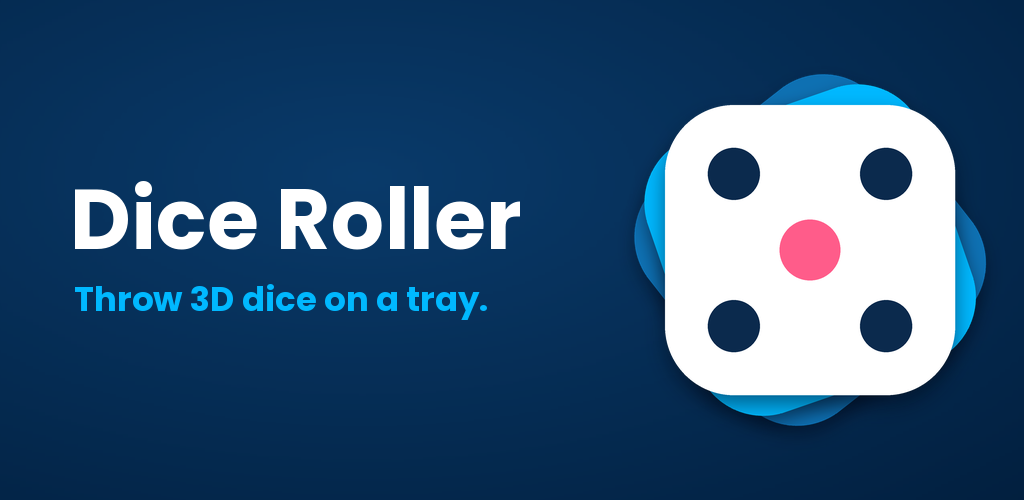
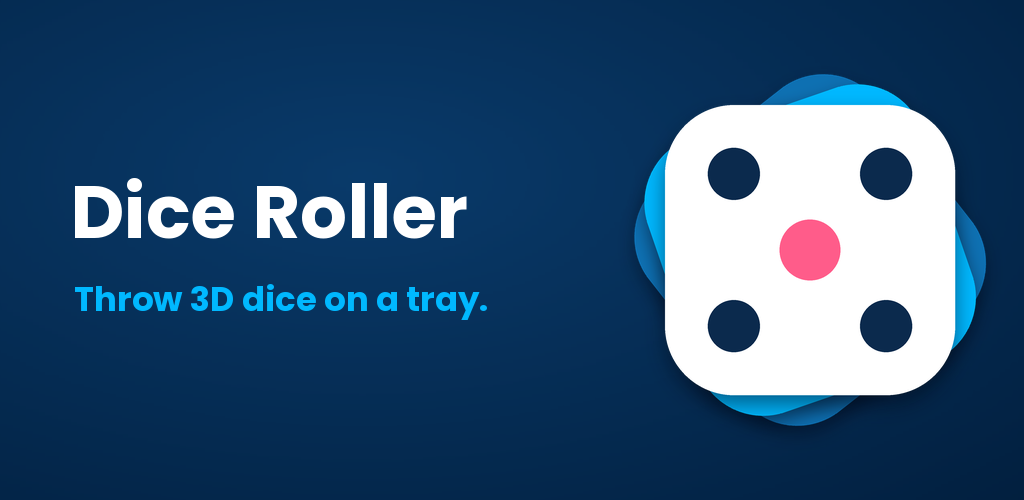
Redoing branding

Changed region(s): [[0.0625, 0.36, 0.5312, 0.51]]

diff --git a/tools/generate_branding.py b/tools/generate_branding.py
@@ -155,7 +155,7 @@ def main():
     mark = render_mark(500, 1.45)
     fg.alpha_composite(mark, (560, 0))
     d = ImageDraw.Draw(fg)
-    d.text((70, 160), "Dice Roller", font=font(84), fill=WHITE)
+    d.text((70, 160), "Dice Roller", font=font(74), fill=WHITE)
     d.text((74, 275), "Throw 3D dice on a tray.", font=font(34), fill=ACCENT)
     save(fg, "store/feature-graphic-1024x500.png", "RGB")
 
